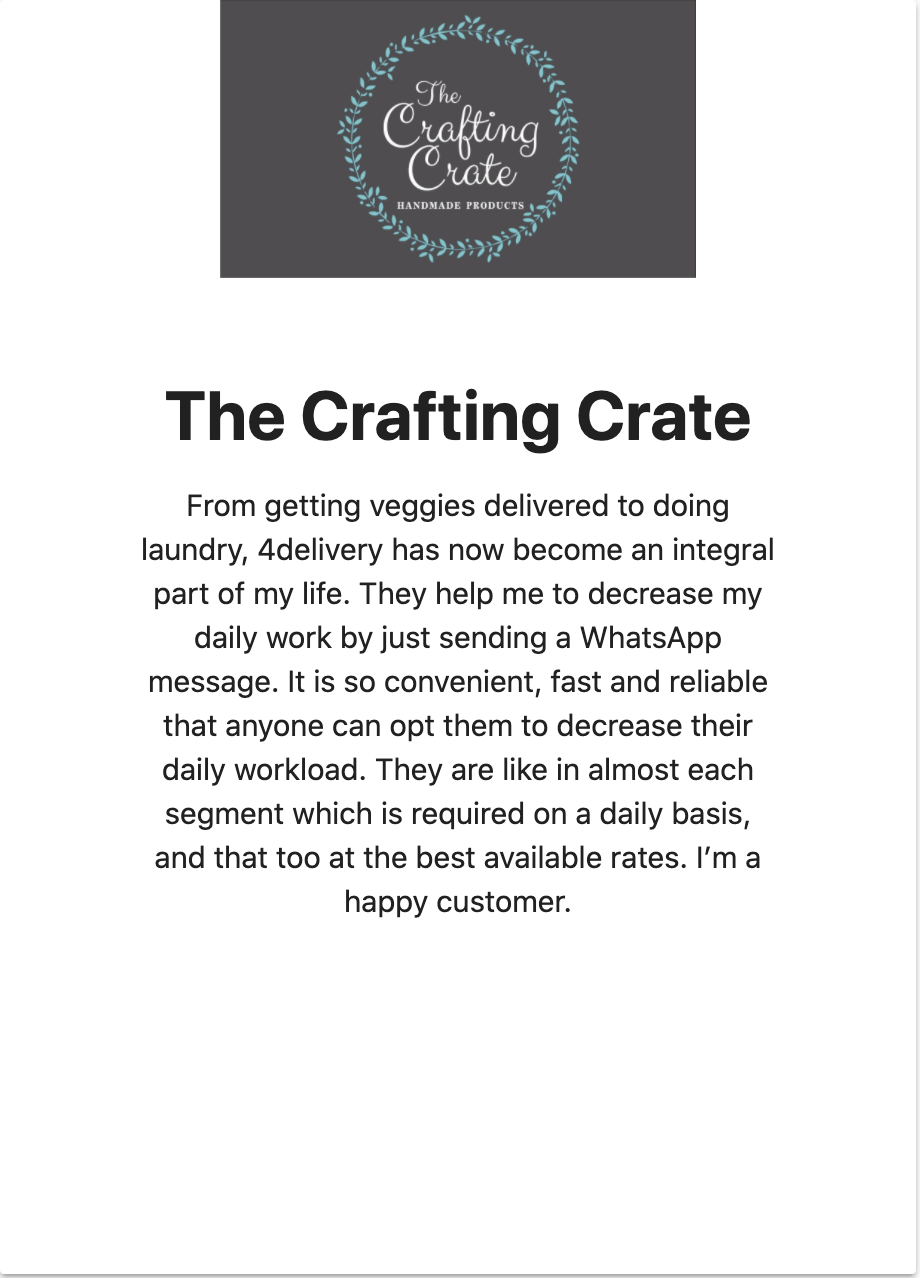
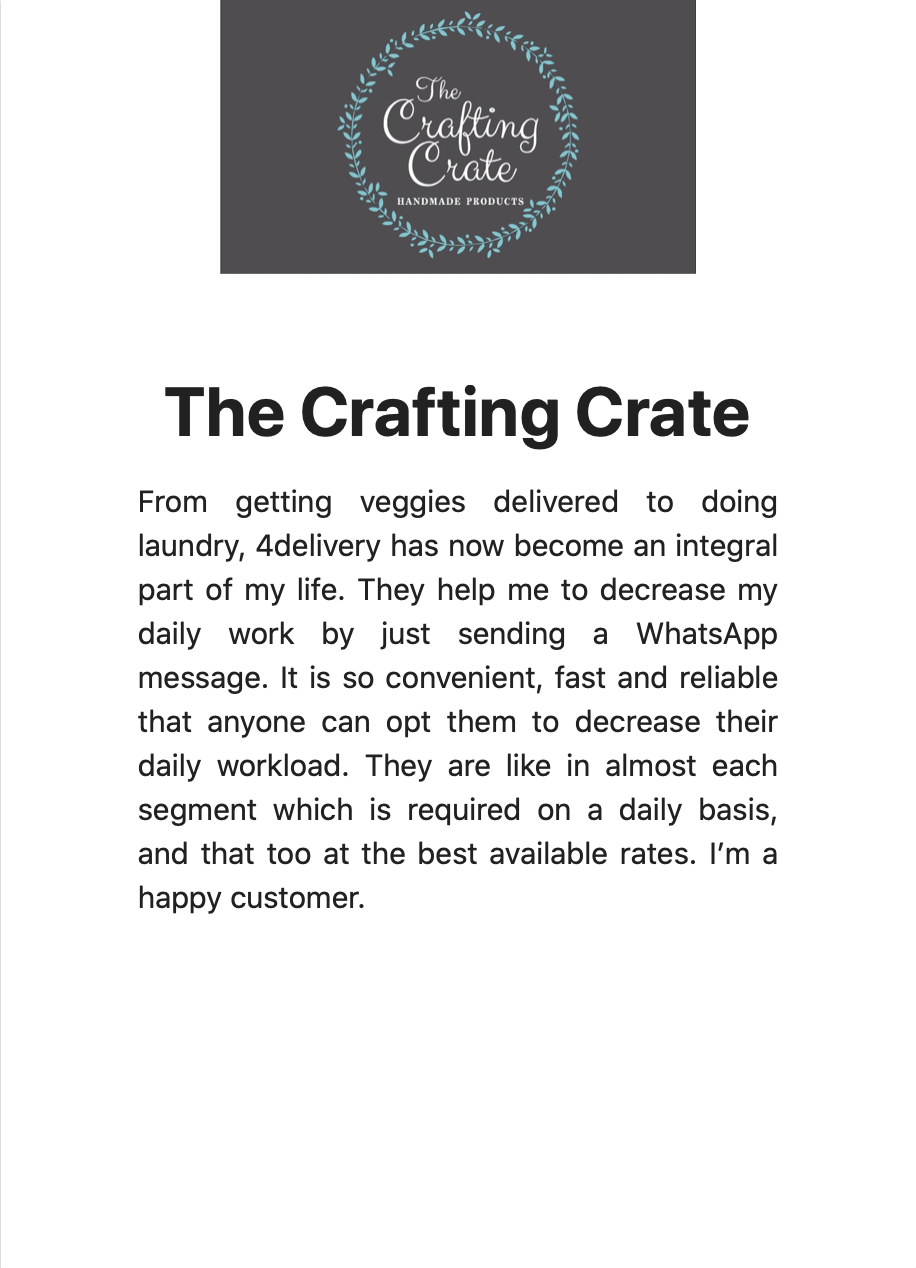
png chnged in testi

diff --git a/index.html b/index.html
@@ -28,6 +28,7 @@
     .jobline{
         margin-top: 10%; color: white;  background-color: #003152;min-height: 20vh;padding-bottom: 5%;
     }
+    
     @media only screen and (max-width: 600px) {
         .company{
             font-size: 40px;
@@ -38,7 +39,7 @@
         .jobline{
             font-size: 50px;
             width: 100%;
-            margin-top: 40%;
+            margin-top: 45%;
         }
         .carousel .carousel-item{
             height: 990px;
@@ -204,7 +205,7 @@
                 <br>
      
                   <h4><b>The Crafting Crate</b></h4>
-                  <p>From getting veggies delivered to doing laundry, 4delivery has now
+                  <p style="text-align: justify;">From getting veggies delivered to doing laundry, 4delivery has now
                     become an integral part of my life. They help me to decrease my daily work by just sending a
                     WhatsApp message. It is so convenient, fast and reliable that anyone can opt them to
                     decrease their daily workload. They are like in almost each segment which is required on a
@@ -220,7 +221,7 @@
                 <img src="merry.jpeg" alt="Avatar" style="width:29.5%">
                 <div class="container">
                   <h4><b>Merry Makers</b></h4>
-                  <p>They are really good at providing their customer with excellent and punctual
+                  <p style="text-align: justify;">They are really good at providing their customer with excellent and punctual
                     service while taking all precautionary safety and hygienic measures, while also giving that
                     extra touch every time. I have been using them from the launch and they’ve never let me
                     down and have been consistently brilliant. In short, you can find them very reliable and
@@ -234,7 +235,7 @@
                 <img src="vinit.jpeg" alt="Avatar" style="width:26.5%">
                 <div class="container">
                   <h4><b>Vinit</b></h4>
-                  <p>I don’t know from where to begin. We were really tensed to give our clothes for
+                  <p style="text-align: justify;">I don’t know from where to begin. We were really tensed to give our clothes for
                     ironing or dry cleaning after the lockdown due to high risk of COVID-19. Then, I came to
                     know about 4delivery from my relative, where they welcomed us with their amazing services
                     and extremely reasonable prices. However, my favourite is the precise folding and cleanliness
